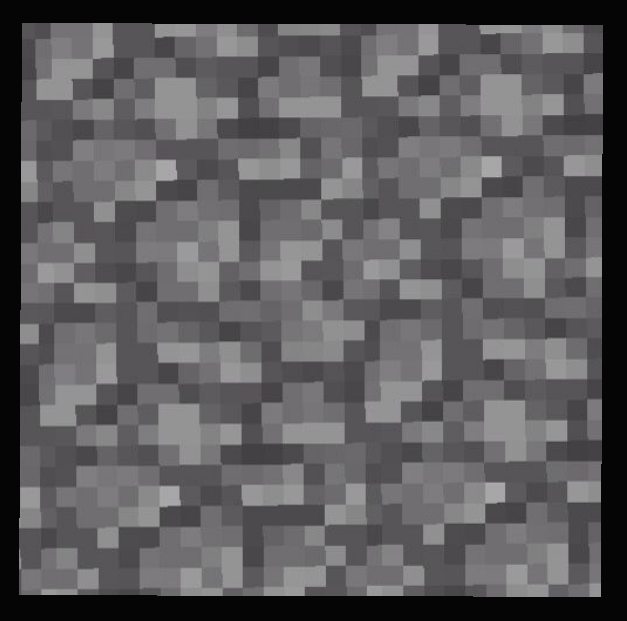
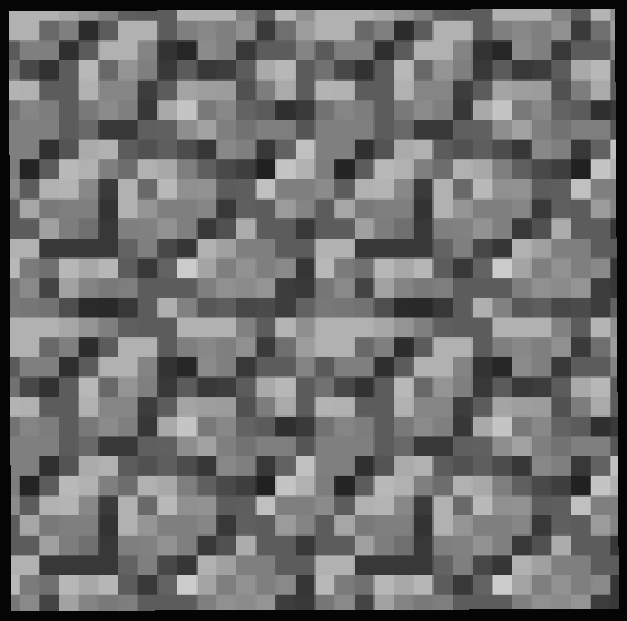
Added player input, more debugging tools, depth testing, more textures, and more

diff --git a/Source/Main.cpp b/Source/Main.cpp
@@ -15,13 +15,32 @@
 #include "Renderer.h"
 #include "Math.h"
 
+struct Key_State {
+	bool pressed_this_frame;
+	bool held_down;
+};
+
+std::unordered_map<LPARAM, Key_State> key_states;
+
+void reset_Pressed_This_Frame() {
+	for (auto& key_State : key_states) {
+		key_states[key_State.first].pressed_this_frame = false;
+	}
+}
+
 LRESULT windowProcedure(HWND windowHandle, UINT messageType, WPARAM wParam, LPARAM lParam)
 {
+	reset_Pressed_This_Frame();
 	LRESULT result = {};
 	switch (messageType) {
 	case WM_KEYDOWN: {
+		key_states[wParam].pressed_this_frame = true;
+		key_states[wParam].held_down = true;
 		log("WM_KEYDOWN: %llu", wParam);
 		break;
+	}
+	case WM_KEYUP: {
+		key_states[wParam].held_down = false;
 	}
 	case WM_LBUTTONDOWN: {
 		break;
@@ -75,8 +94,11 @@ int WinMain(HINSTANCE hInstance, HINSTANCE hPrevInstance, LPSTR lpCmdLine, int n
 	SDL_SetTextureBlendMode(castle_infernal_image.texture, SDL_BLENDMODE_BLEND);
 	Image azir_image = create_Image(renderer, "assets\\azir.jpg");
 	SDL_SetTextureBlendMode(azir_image.texture, SDL_BLENDMODE_BLEND);
+
 	Image cobblestone_image = create_Image(renderer, "assets\\cobblestone.png");
 	SDL_SetTextureBlendMode(cobblestone_image.texture, SDL_BLENDMODE_BLEND);
+	Image dirt_image = create_Image(renderer, "assets\\dirt.png");
+	SDL_SetTextureBlendMode(dirt_image.texture, SDL_BLENDMODE_BLEND);
 
 	bool running = true;
 	while (running) {
@@ -139,16 +161,66 @@ int WinMain(HINSTANCE hInstance, HINSTANCE hPrevInstance, LPSTR lpCmdLine, int n
 		SDL_SetTextureAlphaMod(azir_image.texture, 155);
 		SDL_RenderCopy(renderer, azir_image.texture, NULL, &azir_rect);
 
-		for (float i = 0; i <= 20; i += 2) {
-			for (float j = 0; j <= 20; j += 2) {
-				float x = i - 10;
-				if (x > 0) {
-					x = 10 - x;
-				}
-				V3 cube_pos = { x, -4, j - 15};
+		// for (float i = 0; i <= 20; i += 2) {
+		// 	for (float j = 0; j <= 20; j += 2) {
+		// 		float x = i - 10;
+		// 		// Invert the drawing so the cubes dont draw on top of eachother
+		// 		if (x > 0) {
+		// 			x = 10 - x;
+		// 		}
+		// 		V3 cube_pos = { x, -4, j - 15};
+		// 		mp_draw_cube(renderer, cube_pos, cobblestone_image.texture);
+		// 	}
+		// }
+
+		static float width = 0;
+		static float depth = 0;
+		if (key_states[VK_INSERT].pressed_this_frame || key_states[VK_INSERT].held_down) {
+			width += 1;
+		}
+		if (key_states[VK_DELETE].pressed_this_frame || key_states[VK_DELETE].held_down) {
+			if (width > 0) {
+				width -= 1;
+			}
+		}
+		if (key_states[VK_HOME].pressed_this_frame || key_states[VK_HOME].held_down) {
+			depth += 1;
+		}
+		if (key_states[VK_END].pressed_this_frame || key_states[VK_END].held_down) {
+			if (depth > 0) {
+				depth -= 1;
+			}
+		}
+		for (float i = 0; i <= width; i += 2) {
+			for (float j = 0; j <= depth; j += 2) {
+				V3 cube_pos = { i - (width / 2), -4, j - (depth / 2)};
 				mp_draw_cube(renderer, cube_pos, cobblestone_image.texture);
 			}
 		}
+
+		static V3 player_pos = { 0, -2, 0 };
+		float player_speed = 0.05f;
+		// TODO: There is a bug with holding down the keys simultaneously and 
+		// the player moving faster diagonally. 
+		if (key_states[VK_DOWN].pressed_this_frame || key_states[VK_DOWN].held_down) {
+			player_pos.z += player_speed;
+		} 
+		if (key_states[VK_UP].pressed_this_frame || key_states[VK_UP].held_down) {
+			player_pos.z -= player_speed;
+		} 
+		if (key_states[VK_RIGHT].pressed_this_frame || key_states[VK_RIGHT].held_down) {
+			player_pos.x += player_speed;
+		}
+		if (key_states[VK_LEFT].pressed_this_frame || key_states[VK_LEFT].held_down) {
+			player_pos.x -= player_speed;
+		}
+		if (key_states[VK_SPACE].pressed_this_frame || key_states[VK_SPACE].held_down) {
+			player_pos.y += player_speed;
+		}
+		if (key_states[VK_CONTROL].pressed_this_frame || key_states[VK_CONTROL].held_down) {
+			player_pos.y -= player_speed;
+		}
+		mp_draw_cube(renderer, player_pos, dirt_image.texture);
 
 		SDL_RenderPresent(renderer);
 

diff --git a/Source/Renderer.cpp b/Source/Renderer.cpp
@@ -1943,6 +1943,15 @@ void SDL_RenderPresent(SDL_Renderer* sdl_renderer) {
 	}
 	Renderer* renderer = (Renderer*)sdl_renderer;
 
+	// GL_COLOR_BUFFER_BIT: This clears the color buffer, which is responsible for holding the color 
+	// information of the pixels. Clearing this buffer sets all the pixels to the color specified by glClearColor.
+	// GL_DEPTH_BUFFER_BIT: This clears the depth buffer, which is responsible for holding the depth 
+	// information of the pixels. The depth buffer keeps track of the distance from the camera to each pixel
+	// to handle occlusion correctly.
+	glClear(GL_COLOR_BUFFER_BIT | GL_DEPTH_BUFFER_BIT);
+	glEnable(GL_DEPTH_TEST | GL_BLEND);
+	glDepthFunc(GL_LESS);
+
 	int window_width = 0;
 	int window_height = 0;
 	get_window_size(renderer->window, window_width, window_height);
@@ -2036,7 +2045,6 @@ void SDL_RenderPresent(SDL_Renderer* sdl_renderer) {
 	renderer->vertices_indices.clear();
 
 	upload_cube_data();
-
 	for (Command_Packet packet : renderer->command_packets_3d) {
 		glBindTexture(GL_TEXTURE_2D, packet.draw_call_3d_info.texture_handle);
 		draw_cube(sdl_renderer, packet.draw_call_3d_info.pos);
@@ -2045,7 +2053,6 @@ void SDL_RenderPresent(SDL_Renderer* sdl_renderer) {
 
 	SwapBuffers(renderer->hdc);
 }
-
 
 void draw_debug_images(SDL_Renderer* sdl_renderer) {
     if (sdl_renderer == nullptr) {
